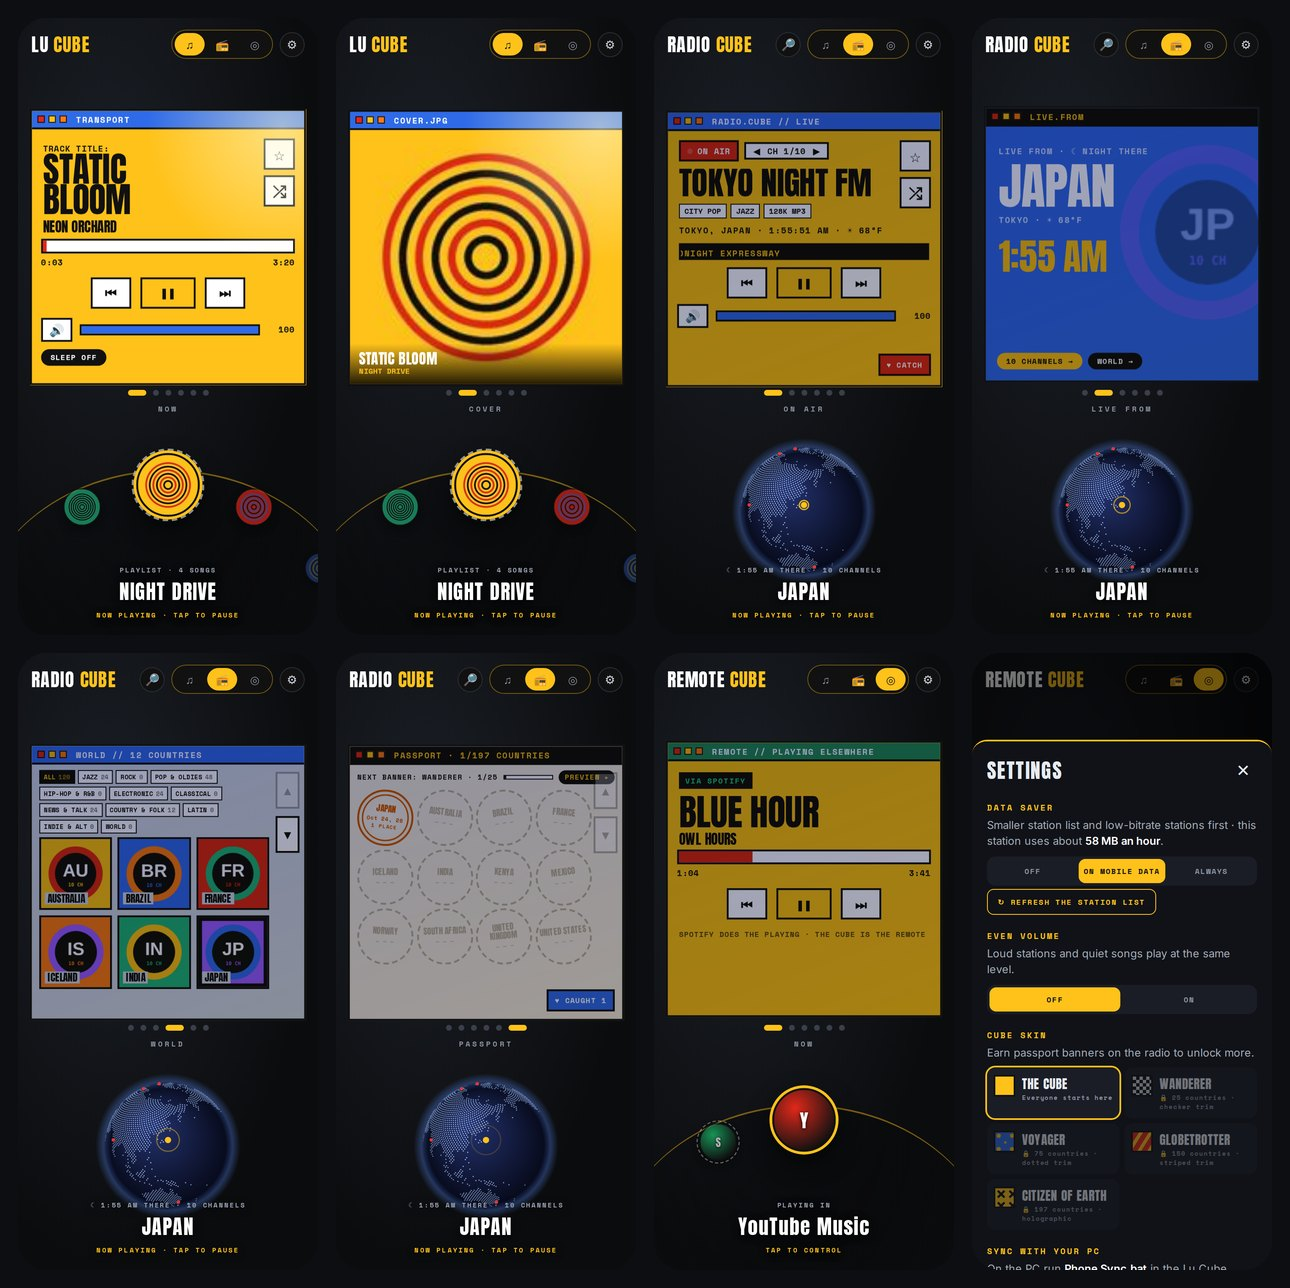
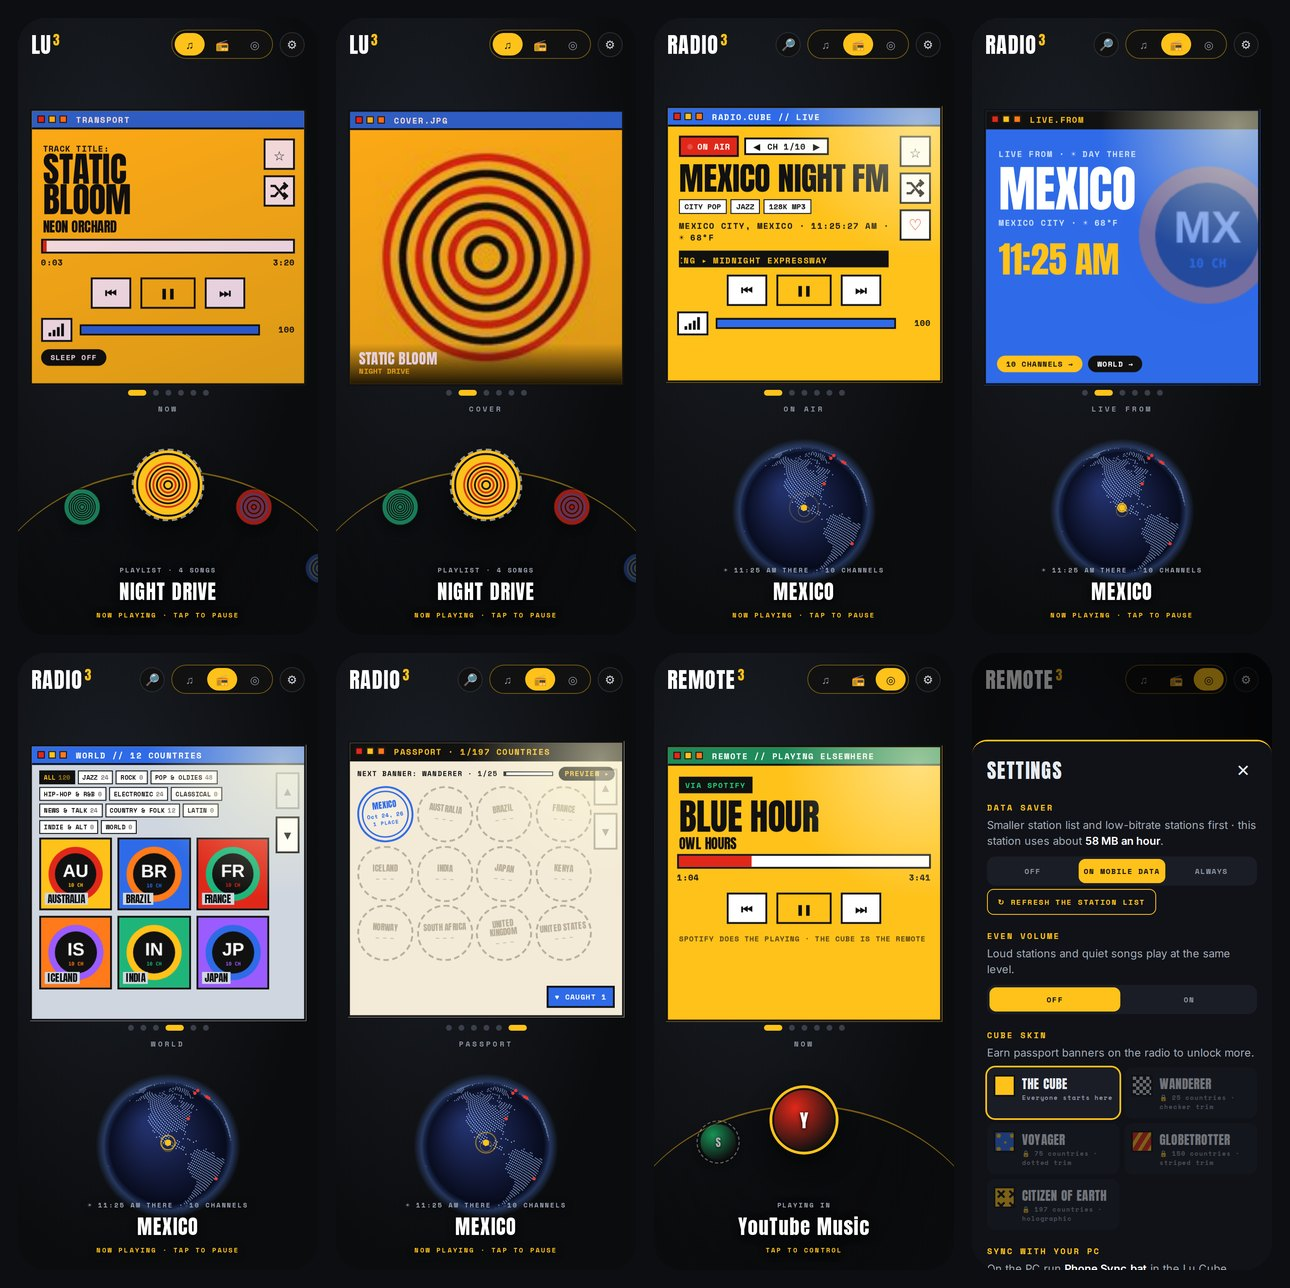
Phone: swiping the app away stops the music. Website and README: real screenshots of the current cube and phone app
Claude-Session: https://claude.ai/code/session_01DfomrQ7bUu46xHr364mt4m

diff --git a/docs/index.html b/docs/index.html
@@ -111,12 +111,12 @@ footer b{color:#fff}
  <p class="lede">One key flips the whole cube from your music to live radio. A line of light sweeps across every face. Whatever you were listening to waits there, paused, until you flip back.</p>
  <div class="stats"><div><b>~50,000</b><span>LIVE STATIONS</span></div><div><b>~200</b><span>COUNTRIES</span></div><div><b>1 KEY</b><span>TO SWITCH</span></div></div>
  <div class="faces six">
-  <div class="face"><img src="img/radio-now.jpg" alt="Radio Now Playing face with station name, genres, local time and weather"><b>On air</b><span>The station, its genres, local time and weather there, and the song it's playing.</span></div>
+  <div class="face"><img src="img/radio-now.jpg" alt="Radio Now Playing face with station name, genres, local time and weather"><b>On air</b><span>The station, its genres, local time and weather there, and the song it's playing. Hear something good? Tap ♡ to catch it.</span></div>
   <div class="face"><img src="img/radio-livefrom.jpg" alt="Live From face with the city name and local time"><b>Live from</b><span>Where you're listening, and whether it's night or day there.</span></div>
   <div class="face"><img src="img/radio-channels.jpg" alt="Channels face"><b>Channels</b><span>Every station for that country. Save favourites with a star.</span></div>
   <div class="face"><img src="img/radio-world.jpg" alt="World face with genre filter chips"><b>World + genres</b><span>Filter the whole world by jazz, rock, classical, news and more.</span></div>
   <div class="face"><img src="img/radio-wake.jpg" alt="Wake-up face with alarm time and world clocks"><b>Wake-up</b><span>Wake up to any station, fading in. World clocks below.</span></div>
-  <div class="face"><img src="img/radio-passport.jpg" alt="Passport face with country stamps"><b>Passport</b><span>A stamp for every country you tune into.</span></div>
+  <div class="face"><img src="img/radio-passport.jpg" alt="Passport face with country stamps"><b>Passport</b><span>A stamp for every country you tune into, plus your caught songs, one tap from Spotify or YouTube Music.</span></div>
  </div>
  <p class="note" style="margin-top:22px">Stations come from the free <a href="https://www.radio-browser.info">radio-browser.info</a> directory. Radio needs the internet; your own music never does.</p>
 </div></section>
@@ -154,7 +154,7 @@ footer b{color:#fff}
    </ul>
    <div class="btns" style="margin-top:22px"><a class="btn main" href="https://github.com/BuildBeyond1889/LuCube/releases/download/phone-latest/LuCube.apk">⬇ Get the Android app</a><a class="btn ghost" href="phone.html">See the screens</a></div>
   </div>
-  <div class="frame"><img src="img/phone.jpg" alt="Four phone screens: your music, world radio, remote mode and the lock screen controls"></div>
+  <div class="frame"><img src="img/phone.jpg" alt="Four phone screens: your music, the radio playing, the World face with genres, and remote mode controlling Spotify"></div>
  </div>
 </div></section>
 

diff --git a/phone/android/app/src/main/java/com/buildbeyond/lucube/LuPlayerService.java b/phone/android/app/src/main/java/com/buildbeyond/lucube/LuPlayerService.java
@@ -215,8 +215,11 @@ public class LuPlayerService extends MediaLibraryService {
 
     @Override
     public void onTaskRemoved(@Nullable Intent rootIntent) {
-        // swiping the app away keeps the music going; if nothing is playing, close quietly
-        if (player == null || !player.getPlayWhenReady() || player.getMediaItemCount() == 0) stopSelf();
+        // swiping Lu Cube away from your recent apps stops the music (it remembers where you were for next time)
+        if (player != null) { player.pause(); player.stop(); }
+        LuWidget.update(this);
+        stopForeground(true);
+        stopSelf();
     }
 
     @Override

diff --git a/README.md b/README.md
@@ -3,12 +3,10 @@
 **A music wheel that turns into a 3D cube.** (Pronounced "Lou Cube".)
 
 ### On a PC
-<p align="center"><img src="docs/img/demo-desktop.gif" width="640" alt="Opening the wheel on the edge of the screen, dragging a record out into a cube, turning its faces, then pressing R to switch to world radio"></p>
-<p align="center"><img src="docs/img/desktop-faces.jpg" width="820" alt="Eight faces: transport, cover, playlist, library, then the radio's On Air, Live From, World and Passport"></p>
+<p align="center"><img src="docs/img/desktop-faces.jpg" width="820" alt="Eight faces: transport, playlist, library, then the radio's On Air, Live From, Channels, World and Passport"></p>
 
 ### On a phone
-<p align="center"><img src="docs/img/demo-phone.gif" width="300" alt="The phone app: swiping the thumb wheel to a playlist, turning the cube, switching to the radio and spinning the globe to Iceland, catching a song, then the remote for Spotify"></p>
-<p align="center"><img src="docs/img/phone-screens.jpg" width="820" alt="Eight phone screens: your music, cover, radio on air, live from Japan, the world, the passport, the remote and settings"></p>
+<p align="center"><img src="docs/img/phone-screens.jpg" width="820" alt="Eight phone screens: your music, cover, radio on air, live from Mexico, the world, the passport, the remote and settings"></p>
 
 <sub>The songs and stations shown are made up for the demo.</sub>
 
